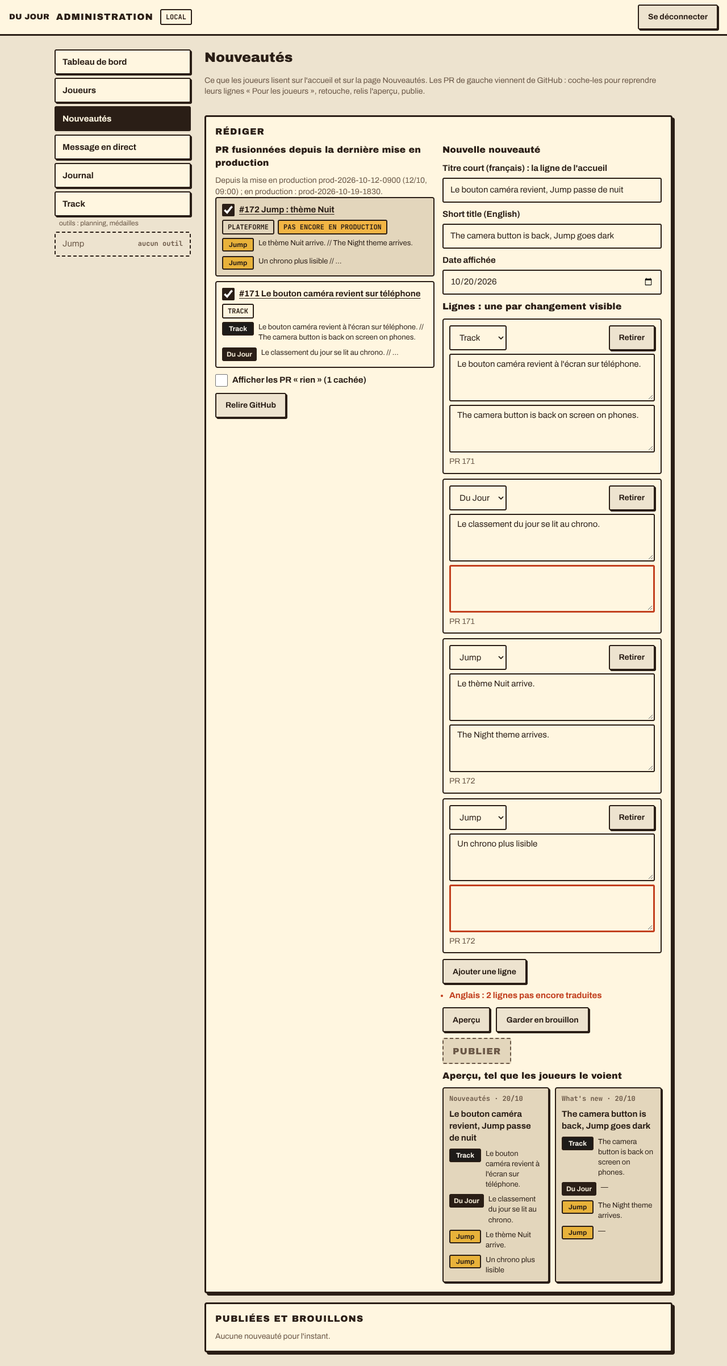
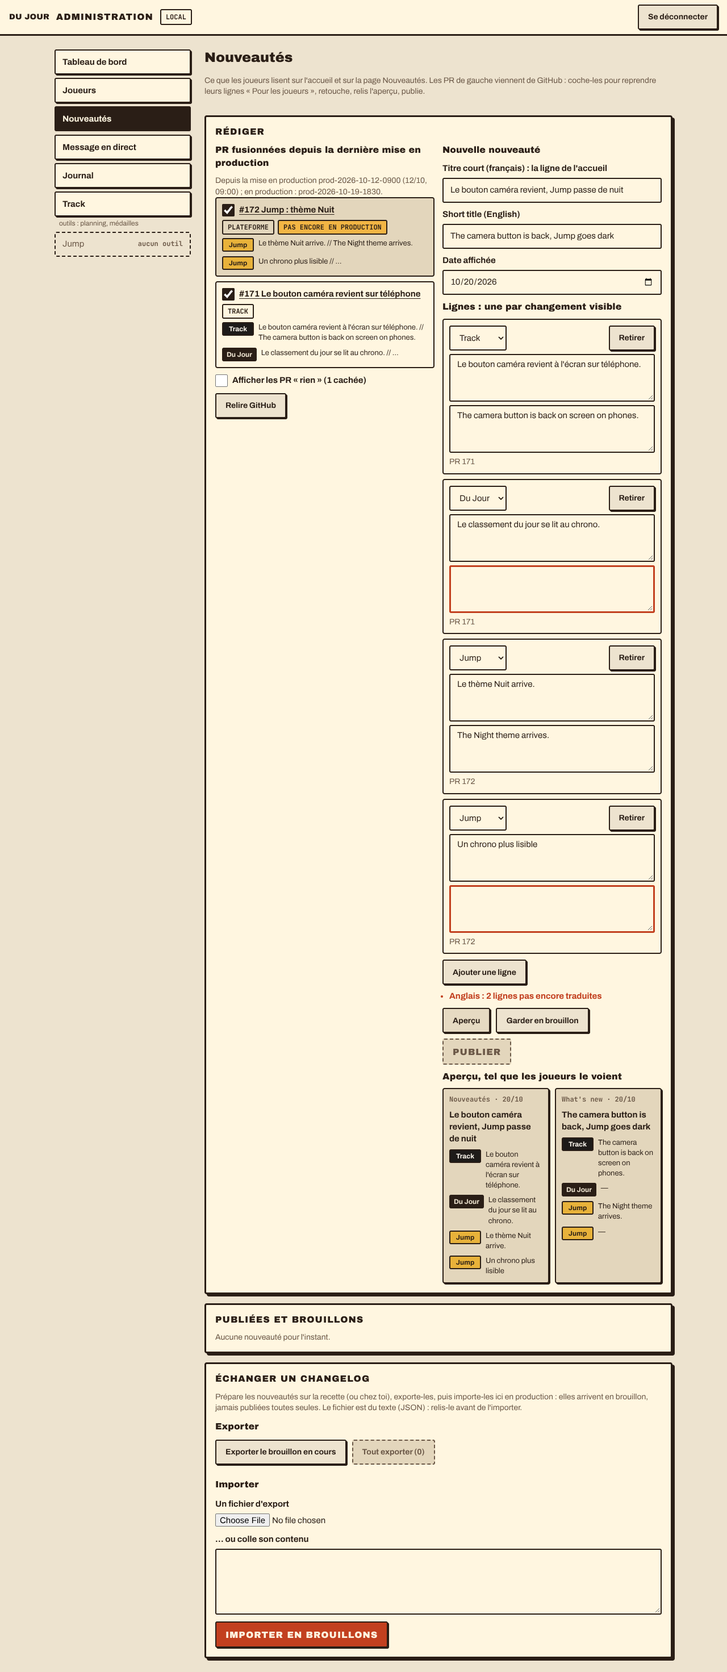
Nouveautés : exporter et importer un changelog (JSON versionné, import en brouillon, doublons ignorés)
Claude-Session: https://claude.ai/code/session_012eMWG3K9nLsopE3XgMPQ2Y

Changed region(s): [[0.0, 0.0, 1.0, 0.9975], [0.9062, 0.0623, 0.9375, 0.0935]]

diff --git a/apps/portail/src/adminDiffusion.ts b/apps/portail/src/adminDiffusion.ts
@@ -1,4 +1,4 @@
-import { NOM_DE_ZONE, ZONES_NOUVEAUTES, MESSAGE_MAX, longueur, nettoyerMessage, nettoyerNouveaute, problemesDeMessage, problemesDePublication, texteProbleme, texteProblemeMessage, type MessageContenu, type OuMessage, type TonMessage, type ZoneNouveaute } from "@cdj/core/nouveautes";
+import { NOM_DE_ZONE, ZONES_NOUVEAUTES, MESSAGE_MAX, cleDeNouveaute, exporterNouveautes, lireExport, longueur, nettoyerMessage, nettoyerNouveaute, problemesDeMessage, texteProblemeImport, problemesDePublication, texteProbleme, texteProblemeMessage, type MessageContenu, type OuMessage, type TonMessage, type ZoneNouveaute } from "@cdj/core/nouveautes";
 import { bouton, el } from "@cdj/ui";
 import {
   ErreurAdmin,
@@ -41,6 +41,16 @@ const titreCarte = (texte: string, id: string) => el("h2", { classe: "admin-titr
 const boutonEnvoi = (texte: string) => el("button", { classe: "dj-bouton dj-bouton--marque", attrs: { type: "submit" }, texte });
 const champ = (id: string, libelle: string, entree: HTMLElement, aide?: string) =>
   el("div", { classe: "admin-champ" }, el("label", { attrs: { for: id }, texte: libelle }), entree, aide ? el("p", { classe: "admin-aide", attrs: { id: `${id}-aide` }, texte: aide }) : null);
+
+/** Fait télécharger `texte` comme un fichier (lien temporaire vers un objet local : rien ne part sur le réseau). */
+function telecharger(nom: string, texte: string): void {
+  const url = URL.createObjectURL(new Blob([texte], { type: "application/json" }));
+  const a = el("a", { attrs: { href: url, download: nom } });
+  document.body.append(a);
+  a.click();
+  a.remove();
+  setTimeout(() => URL.revokeObjectURL(url), 5_000);
+}
 
 /** Un 401 ramène à la connexion ; le reste se dit. */
 async function surErreur(ctx: Contexte, e: unknown, dire: (texte: string) => void): Promise<void> {
@@ -452,6 +462,100 @@ export async function vueNouveautes(ctx: Contexte): Promise<Node[]> {
       : p("Aucune nouveauté pour l'instant.", "admin-aide"),
   );
 
+  // --- Échanger un changelog : exporter, importer (préparer sur la recette, reprendre en production) ------------------------------------------------
+  const exportTexte = el("textarea", { attrs: { id: "export-texte", rows: 6, readonly: true, "aria-label": "Contenu de l'export", spellcheck: "false" } });
+  const exportActions = el("div", { classe: "admin-actions", attrs: { hidden: true } });
+  const montrerExport = (texte: string, nom: string, combien: string): void => {
+    exportTexte.value = texte;
+    exportTexte.hidden = false;
+    exportActions.hidden = false;
+    exportActions.replaceChildren(
+      bouton({ texte: "Télécharger le fichier", variante: "secondaire", onClick: () => telecharger(nom, texte) }),
+      bouton({
+        texte: "Copier",
+        variante: "secondaire",
+        onClick: () =>
+          navigator.clipboard.writeText(texte).then(
+            () => dire("info", "Export copié : colle-le dans « Importer » de l'autre panneau (recette ou production)."),
+            () => dire("erreur", "Copie refusée par le navigateur : sélectionne le texte et copie-le à la main."),
+          ),
+      }),
+    );
+    dire("info", `${combien} exportée${combien.startsWith("1 ") ? "" : "s"} (${texte.length} caractères). Rien n'est modifié ici.`);
+  };
+  const maintenantIso = () => new Date().toISOString();
+  const nomDeFichier = () => `nouveautes-${aujourdhuiParis(Date.now())}.json`;
+  const exporterEditeur = bouton({
+    texte: "Exporter le brouillon en cours",
+    variante: "secondaire",
+    onClick: () => {
+      const c = contenuDe(brouillon);
+      if (!c.titre.fr && !c.titre.en && c.lignes.length === 0) return dire("erreur", "L'éditeur est vide : rien à exporter.");
+      montrerExport(exporterNouveautes([{ ...c, lignes: brouillon.lignes.map((l, i) => ({ ...l, ...c.lignes[i]! })), statut: brouillon.publiee ? "publiee" : "brouillon" }], maintenantIso()), nomDeFichier(), "1 nouveauté");
+    },
+  });
+  exporterEditeur.id = "export-editeur";
+  const exporterTout = bouton({
+    texte: `Tout exporter (${liste.nouveautes.length})`,
+    variante: "secondaire",
+    desactive: liste.nouveautes.length === 0,
+    onClick: () => {
+      if (liste.nouveautes.length === 0) return;
+      montrerExport(exporterNouveautes(liste.nouveautes.map((n) => ({ titre: n.titre, date: n.date, lignes: n.lignes, statut: n.statut })), maintenantIso()), nomDeFichier(), `${liste.nouveautes.length} nouveauté${liste.nouveautes.length > 1 ? "s" : ""}`);
+    },
+  });
+  exporterTout.id = "export-tout";
+  const importTexte = el("textarea", { attrs: { id: "import-texte", rows: 6, "aria-label": "Export à importer (colle le texte ou choisis un fichier)", spellcheck: "false" } });
+  const fichier = el("input", { attrs: { id: "import-fichier", type: "file", accept: "application/json,.json", "aria-label": "Choisir un fichier d'export" } });
+  fichier.addEventListener("change", async () => {
+    const f = fichier.files?.[0];
+    if (!f) return;
+    if (f.size > 400_000) return dire("erreur", "Ce fichier est trop gros pour être un changelog.");
+    importTexte.value = await f.text();
+    dire("info", `Fichier « ${f.name} » chargé : vérifie-le puis clique sur « Importer en brouillons ».`);
+  });
+  const importer = bouton({
+    texte: "Importer en brouillons",
+    variante: "marque",
+    onClick: async () => {
+      const lu = lireExport(importTexte.value, aujourdhuiParis(Date.now()));
+      if (!lu.ok) return dire("erreur", texteProblemeImport(lu.probleme));
+      const connues = new Set(liste.nouveautes.map(cleDeNouveaute));
+      const nouvelles = lu.nouveautes.filter((n, i, tous) => !connues.has(cleDeNouveaute(n)) && tous.findIndex((x) => cleDeNouveaute(x) === cleDeNouveaute(n)) === i);
+      const dejaLa = lu.nouveautes.length - nouvelles.length;
+      if (nouvelles.length === 0) return dire("info", `Rien à importer : ${dejaLa === 1 ? "cette nouveauté est déjà" : `ces ${dejaLa} nouveautés sont déjà`} dans la liste (même date, même titre).`);
+      const v = await ctx.confirmer({
+        titre: "Importer des nouveautés",
+        texte: `${nouvelles.length} nouveauté${nouvelles.length > 1 ? "s" : ""} arrivent en brouillon : ${nouvelles.map((n) => `« ${n.titre.fr || "(sans titre)"} »`).join(", ")}.${dejaLa ? ` ${dejaLa} déjà présente${dejaLa > 1 ? "s" : ""} (ignorée${dejaLa > 1 ? "s" : ""}).` : ""} Rien n'est publié : tu les relis puis tu publies.`,
+        action: "Importer",
+      });
+      if (!v) return;
+      try {
+        for (const n of nouvelles) await ctx.client.enregistrerNouveaute({ titre: n.titre, date: n.date, lignes: n.lignes, publier: false });
+        importTexte.value = "";
+        await ctx.recharger(`${nouvelles.length} nouveauté${nouvelles.length > 1 ? "s" : ""} importée${nouvelles.length > 1 ? "s" : ""} en brouillon${dejaLa ? ` (${dejaLa} déjà présente${dejaLa > 1 ? "s" : ""})` : ""}${lu.ignorees ? `, ${lu.ignorees} entrée${lu.ignorees > 1 ? "s" : ""} illisible${lu.ignorees > 1 ? "s" : ""} ignorée${lu.ignorees > 1 ? "s" : ""}` : ""}. Relis-les ci-dessous, puis publie.`);
+      } catch (e) {
+        await surErreur(ctx, e, (t) => dire("erreur", t));
+      }
+    },
+  });
+  importer.id = "import-valider";
+  const echange = el(
+    "section",
+    { classe: "admin-carte", attrs: { "aria-labelledby": "titre-echange", id: "nouveautes-echange" } },
+    titreCarte("Échanger un changelog", "titre-echange"),
+    p("Prépare les nouveautés sur la recette (ou chez toi), exporte-les, puis importe-les ici en production : elles arrivent en brouillon, jamais publiées toutes seules. Le fichier est du texte (JSON) : relis-le avant de l'importer.", "admin-aide"),
+    el("h3", { classe: "admin-sous-titre", texte: "Exporter" }),
+    el("div", { classe: "admin-actions" }, exporterEditeur, exporterTout),
+    exportTexte,
+    exportActions,
+    el("h3", { classe: "admin-sous-titre", texte: "Importer" }),
+    champ("import-fichier", "Un fichier d'export", fichier),
+    champ("import-texte", "… ou colle son contenu", importTexte),
+    el("div", { classe: "admin-actions" }, importer),
+  );
+  exportTexte.hidden = true;
+
   dessinerEditeur();
   void chargerPrs();
   return [
@@ -460,6 +564,7 @@ export async function vueNouveautes(ctx: Contexte): Promise<Node[]> {
     zoneMessage,
     el("section", { classe: "admin-carte", attrs: { "aria-labelledby": "titre-redaction", id: "nouveautes-redaction" } }, titreCarte("Rédiger", "titre-redaction"), el("div", { classe: "admin-deux-colonnes" }, colonnePrs, colonneEditeur)),
     gestion,
+    echange,
   ];
 }
 

diff --git a/packages/core/src/nouveautes.ts b/packages/core/src/nouveautes.ts
@@ -206,6 +206,106 @@ export function nettoyerNouveaute(brut: unknown): NouveauteContenu {
   };
 }
 
+// --- Exporter et importer un changelog -------------------------------------------------------------------------------------------------------
+// Préparer les nouveautés à l'avance (sur la recette, ou chez soi) puis les reprendre en production : un fichier JSON versionné qui porte une ou plusieurs nouveautés. **Un import ne publie jamais** :
+// chaque nouveauté arrive en brouillon, à relire, puis à publier à la main. Tout ce qui vient du fichier est une donnée : lue prudemment (taille, forme, version), nettoyée comme une saisie
+// (`nettoyerNouveaute`), jamais interprétée. Pur : l'heure de l'export et « aujourd'hui » viennent de l'appelant.
+
+export const FORMAT_EXPORT = "cdj-nouveautes";
+export const VERSION_EXPORT = 1;
+/** Un fichier plus gros n'est pas un changelog : refusé sans être lu. */
+export const EXPORT_OCTETS_MAX = 200_000;
+export const EXPORT_NOUVEAUTES_MAX = 100;
+
+export interface LigneExportee extends LigneNouveaute {
+  /** Le numéro de la PR d'où vient la ligne. */
+  pr?: number;
+}
+export interface NouveauteExportee extends NouveauteContenu {
+  lignes: LigneExportee[];
+  statut: "brouillon" | "publiee";
+}
+
+/** Le fichier d'export : lisible (indenté), versionné, trié comme on le lui donne. `exporteLe` : l'instant de l'export (ISO), pour s'y retrouver. */
+export function exporterNouveautes(nouveautes: readonly { titre: { fr: string; en: string }; date: string; lignes: readonly { zone: ZoneNouveaute | null; fr: string; en: string; pr?: number }[]; statut?: "brouillon" | "publiee" }[], exporteLe: string): string {
+  return JSON.stringify(
+    {
+      format: FORMAT_EXPORT,
+      version: VERSION_EXPORT,
+      exporteLe,
+      nouveautes: nouveautes.map((n) => ({
+        titre: { fr: n.titre.fr, en: n.titre.en },
+        date: n.date,
+        statut: n.statut ?? "brouillon",
+        lignes: n.lignes.map((l) => ({ zone: l.zone, fr: l.fr, en: l.en, ...(Number.isInteger(l.pr) && (l.pr as number) > 0 ? { pr: l.pr } : {}) })),
+      })),
+    },
+    null,
+    2,
+  );
+}
+
+export type ProblemeImport = "trop_gros" | "illisible" | "format" | "version" | "vide" | "trop_nombreuses";
+export function texteProblemeImport(p: ProblemeImport): string {
+  switch (p) {
+    case "trop_gros":
+      return "Ce fichier est trop gros pour être un changelog.";
+    case "illisible":
+      return "Ce fichier n'est pas du JSON lisible.";
+    case "format":
+      return "Ce n'est pas un export de nouveautés de Du Jour.";
+    case "version":
+      return "Cet export vient d'une version plus récente du panneau : mets le panneau à jour.";
+    case "vide":
+      return "Aucune nouveauté dans ce fichier.";
+    case "trop_nombreuses":
+      return `Plus de ${EXPORT_NOUVEAUTES_MAX} nouveautés dans ce fichier : il n'est pas lu.`;
+  }
+}
+
+export type LectureExport = { ok: true; nouveautes: NouveauteExportee[]; ignorees: number } | { ok: false; probleme: ProblemeImport };
+
+/**
+ * Lit un export. `aujourdhui` remplace une date absente ou invalide. Une entrée qui n'est pas un objet est ignorée (comptée) ; les textes sont nettoyés comme une saisie ; le statut du fichier est
+ * gardé à titre d'information (l'import les met tous en brouillon).
+ */
+export function lireExport(texte: string, aujourdhui: string): LectureExport {
+  if (typeof texte !== "string" || texte.length > EXPORT_OCTETS_MAX) return { ok: false, probleme: "trop_gros" };
+  let brut: unknown;
+  try {
+    brut = JSON.parse(texte);
+  } catch {
+    return { ok: false, probleme: "illisible" };
+  }
+  const o = (brut && typeof brut === "object" && !Array.isArray(brut) ? brut : null) as Record<string, unknown> | null;
+  if (!o || o.format !== FORMAT_EXPORT) return { ok: false, probleme: "format" };
+  if (typeof o.version !== "number" || !Number.isInteger(o.version) || o.version < 1) return { ok: false, probleme: "format" };
+  if (o.version > VERSION_EXPORT) return { ok: false, probleme: "version" };
+  const liste = Array.isArray(o.nouveautes) ? o.nouveautes : [];
+  if (liste.length > EXPORT_NOUVEAUTES_MAX) return { ok: false, probleme: "trop_nombreuses" };
+  const nouveautes: NouveauteExportee[] = [];
+  let ignorees = 0;
+  for (const entree of liste) {
+    if (!entree || typeof entree !== "object" || Array.isArray(entree)) {
+      ignorees++;
+      continue;
+    }
+    const e = entree as Record<string, unknown>;
+    const propre = nettoyerNouveaute(e);
+    const lignesBrutes = Array.isArray(e.lignes) ? e.lignes : [];
+    const lignes = propre.lignes.map((l, i): LigneExportee => {
+      const pr = (lignesBrutes[i] as { pr?: unknown } | undefined)?.pr;
+      return Number.isInteger(pr) && (pr as number) > 0 && (pr as number) < 1_000_000 ? { ...l, pr: pr as number } : l;
+    });
+    nouveautes.push({ titre: propre.titre, date: dateValide(propre.date) ? propre.date : aujourdhui, lignes, statut: e.statut === "publiee" ? "publiee" : "brouillon" });
+  }
+  if (nouveautes.length === 0) return { ok: false, probleme: "vide" };
+  return { ok: true, nouveautes, ignorees };
+}
+
+/** La clé d'une nouveauté pour reconnaître « déjà là » à la réimportation : la date affichée et le titre français, sans casse ni espaces en trop. */
+export const cleDeNouveaute = (n: { titre: { fr: string }; date: string }): string => `${n.date}|${n.titre.fr.trim().toLowerCase().replace(/\s+/g, " ")}`;
+
 // --- Le message en direct --------------------------------------------------------------------------------------------------------------
 
 export interface MessageContenu {

diff --git a/packages/core/test/nouveautes.test.ts b/packages/core/test/nouveautes.test.ts
@@ -128,3 +128,65 @@ describe("le message en direct : texte seul, 160 caractères, fin", () => {
     expect(messageActif(null, 0)).toBeNull();
   });
 });
+
+// --- Exporter et importer un changelog ---------------------------------------------------------------------------------------------------------
+import { EXPORT_NOUVEAUTES_MAX, EXPORT_OCTETS_MAX, FORMAT_EXPORT, VERSION_EXPORT, cleDeNouveaute, exporterNouveautes, lireExport, texteProblemeImport } from "../src/nouveautes";
+
+describe("exporter et importer un changelog", () => {
+  const A = { titre: { fr: "Le bouton caméra revient", en: "The camera button is back" }, date: "2026-10-28", statut: "publiee" as const, lignes: [{ zone: "track" as const, fr: "Le bouton revient.", en: "The button is back.", pr: 171 }, { zone: null, fr: "À retoucher", en: "" }] };
+  const B = { titre: { fr: "Jump passe de nuit", en: "Jump goes dark" }, date: "2026-10-29", lignes: [{ zone: "jump" as const, fr: "Le thème Nuit.", en: "The Night theme." }] };
+
+  it("un export est versionné et relu à l'identique ; l'import ne garde que ce qu'il sait lire (zone inconnue → à retoucher)", () => {
+    const texte = exporterNouveautes([A, B], "2026-10-28T10:00:00.000Z");
+    const o = JSON.parse(texte);
+    expect(o).toMatchObject({ format: FORMAT_EXPORT, version: VERSION_EXPORT, exporteLe: "2026-10-28T10:00:00.000Z" });
+    const r = lireExport(texte, "2026-11-01");
+    expect(r.ok).toBe(true);
+    if (!r.ok) return;
+    expect(r.nouveautes).toHaveLength(2);
+    expect(r.nouveautes[0]).toMatchObject({ titre: A.titre, date: "2026-10-28", statut: "publiee" });
+    expect(r.nouveautes[0]!.lignes).toEqual([{ zone: "track", fr: "Le bouton revient.", en: "The button is back.", pr: 171 }, { zone: null, fr: "À retoucher", en: "" }]);
+    expect(r.nouveautes[1]!.statut).toBe("brouillon");
+    expect(r.ignorees).toBe(0);
+  });
+
+  it("un fichier hostile reste une donnée : texte nettoyé, HTML jamais interprété, champs inconnus et numéros de PR absurdes écartés", () => {
+    const texte = JSON.stringify({
+      format: FORMAT_EXPORT,
+      version: 1,
+      nouveautes: [{ titre: { fr: "<img src=x onerror=alert(1)>\n\u0007Titre", en: "T" }, date: "pas une date", extra: "x", lignes: [{ zone: "admin", fr: "a\r\nb", en: "c", pr: -3 }, { zone: "jump", fr: "ok", en: "ok", pr: 1e9 }, { zone: "jump", fr: "ok", en: "ok", pr: "12" }] }, 42, null, []],
+    });
+    const r = lireExport(texte, "2026-11-01");
+    expect(r.ok).toBe(true);
+    if (!r.ok) return;
+    expect(r.ignorees).toBe(3);
+    const n = r.nouveautes[0]!;
+    expect(n.titre.fr).toBe("<img src=x onerror=alert(1)> Titre"); // gardé comme du texte (les clients le posent en textContent), une ligne, sans contrôle
+    expect(n.date).toBe("2026-11-01"); // date invalide : remplacée par aujourd'hui
+    expect(n.lignes[0]).toEqual({ zone: null, fr: "a b", en: "c" });
+    expect(n.lignes.map((l) => l.pr)).toEqual([undefined, undefined, undefined]);
+    expect(JSON.stringify(n)).not.toContain("extra");
+  });
+
+  it("refus nommés : trop gros, illisible, pas notre format, version plus récente, vide, trop de nouveautés", () => {
+    const refus = (t: string) => {
+      const r = lireExport(t, "2026-11-01");
+      return r.ok ? null : r.probleme;
+    };
+    expect(refus("x".repeat(EXPORT_OCTETS_MAX + 1))).toBe("trop_gros");
+    expect(refus("{pas du json")).toBe("illisible");
+    expect(refus("[]")).toBe("format");
+    expect(refus(JSON.stringify({ format: "autre", version: 1, nouveautes: [{}] }))).toBe("format");
+    expect(refus(JSON.stringify({ format: FORMAT_EXPORT, nouveautes: [{}] }))).toBe("format");
+    expect(refus(JSON.stringify({ format: FORMAT_EXPORT, version: VERSION_EXPORT + 1, nouveautes: [{}] }))).toBe("version");
+    expect(refus(JSON.stringify({ format: FORMAT_EXPORT, version: 1, nouveautes: [] }))).toBe("vide");
+    expect(refus(JSON.stringify({ format: FORMAT_EXPORT, version: 1, nouveautes: [1, 2] }))).toBe("vide");
+    expect(refus(JSON.stringify({ format: FORMAT_EXPORT, version: 1, nouveautes: Array.from({ length: EXPORT_NOUVEAUTES_MAX + 1 }, () => ({})) }))).toBe("trop_nombreuses");
+    for (const p of ["trop_gros", "illisible", "format", "version", "vide", "trop_nombreuses"] as const) expect(texteProblemeImport(p).length).toBeGreaterThan(10);
+  });
+
+  it("la clé « déjà là » : même date et même titre français, sans casse ni espaces en trop", () => {
+    expect(cleDeNouveaute({ titre: { fr: "  Le bouton   caméra revient " }, date: "2026-10-28" })).toBe(cleDeNouveaute({ titre: { fr: "le bouton caméra revient" }, date: "2026-10-28" }));
+    expect(cleDeNouveaute({ titre: { fr: "a" }, date: "2026-10-28" })).not.toBe(cleDeNouveaute({ titre: { fr: "a" }, date: "2026-10-29" }));
+  });
+});

diff --git a/apps/web/e2e/diffusion.spec.ts b/apps/web/e2e/diffusion.spec.ts
@@ -107,6 +107,27 @@ test("publier un message › il apparaît sur le portail ; une nouveauté depuis
   await expect(admin.locator("#nouveautes-message")).toContainText("publiée");
   await expect(admin.locator('#nouveautes-gestion [data-statut="publiee"]')).toHaveCount(1);
 
+  // --- Échanger un changelog : exporter, réimporter (déjà là), importer une autre nouveauté : elle arrive en brouillon, jamais publiée -----------------------
+  await admin.locator("#export-tout").click();
+  const exporte = await admin.locator("#export-texte").inputValue();
+  expect(JSON.parse(exporte)).toMatchObject({ format: "cdj-nouveautes", version: 1, nouveautes: [{ statut: "publiee", titre: { fr: "Le bouton caméra revient" } }] });
+  const [telechargement] = await Promise.all([admin.waitForEvent("download"), admin.getByRole("button", { name: "Télécharger le fichier" }).click()]);
+  expect(telechargement.suggestedFilename()).toMatch(/^nouveautes-\d{4}-\d\d-\d\d\.json$/);
+  await admin.locator("#import-texte").fill("pas du json");
+  await admin.locator("#import-valider").click();
+  await expect(admin.locator("#nouveautes-message")).toContainText("pas du JSON lisible");
+  await admin.locator("#import-texte").fill(exporte);
+  await admin.locator("#import-valider").click();
+  await expect(admin.locator("#nouveautes-message")).toContainText("déjà dans la liste");
+  const autre = JSON.parse(exporte);
+  autre.nouveautes[0].titre = { fr: "Une autre nouveauté", en: "Another update" };
+  await admin.locator("#import-texte").fill(JSON.stringify(autre));
+  await admin.locator("#import-valider").click();
+  await admin.getByRole("dialog").getByRole("button", { name: "Importer", exact: true }).click();
+  await expect(admin.locator("#nouveautes-message")).toContainText("importée en brouillon");
+  await expect(admin.locator('#nouveautes-gestion [data-statut="brouillon"]')).toHaveCount(1);
+  await expect(admin.locator('#nouveautes-gestion [data-statut="publiee"]')).toHaveCount(1); // rien n'a été publié par l'import
+
   // --- Le portail : la ligne « Nouveautés » avec son point, puis la page ----------------------------------------------------------------------------
   await portail.reload();
   const ligne = portail.locator("#nouveautes");

diff --git a/apps/portail/src/admin.css b/apps/portail/src/admin.css
@@ -755,3 +755,16 @@
     grid-column: 1 / -1;
   }
 }
+
+/* Échanger un changelog : le contenu d'un export est du texte à lire, en chasse fixe. */
+#export-texte,
+#import-texte {
+  width: 100%;
+  font-family: var(--dj-police-chiffres);
+  font-size: var(--dj-taille-12);
+  line-height: 1.4;
+}
+.admin input[type="file"] {
+  font: inherit;
+  max-width: 100%;
+}

diff --git a/apps/portail/CLAUDE.md b/apps/portail/CLAUDE.md
@@ -56,5 +56,6 @@ README : `docs/plateforme/lots/lot-N2-nouveautes-et-message-en-direct.md` ; serv
 - **`/nouveautes/`** (`nouveautes/index.html`, `src/nouveautesPage.ts`, cadre crème) : les mises à jour **par date, la plus récente en haut**, chaque ligne avec l'étiquette de sa zone (Du Jour, Track, Jump), français ou anglais selon `cdj:langue`, **20 par page puis « Plus anciennes »** (`GET /api/portail/nouveautes?avant=`) ; l'ouvrir note « lu ». Balises de partage (image du portail), axe vérifié par l'e2e `diffusion.spec.ts`. Textes `nouveautes.*` et `portail.nouveautes.*` (catalogue du portail, fr + en), `apercu.nouveautes.*` (construction seulement).
 - **Le bandeau du message en direct** (en tête de l'accueil seulement ; composant `bandeauAnnonce` de `@cdj/ui`, `role="status"`, jamais de focus) : le message est **semé** par la réponse de l'accueil (`surveillance.semer`) puis relu par `GET /api/annonce` **toutes les 60 s, seulement page visible** (`surveillerAnnonce` de `@cdj/profile`, `visibiliteDeLaPage` de `@cdj/ui`) ; fermable, **il revient si le message change** (identifiant mémorisé : `cdj:annonce:fermee`) ; « Important » ne se ferme qu'après 10 s de présence. Un message qui n'est pas destiné au portail (`ou`) ne s'affiche pas.
 - **Les rubriques du panneau** (`src/adminDiffusion.ts` ; état du brouillon en mémoire de la page, rien dans le navigateur) : **Nouveautés** — à gauche les PR fusionnées depuis la dernière mise en production (zone, titre, lignes « Pour les joueurs ; les PR « rien » cachées par défaut, « pas encore en production » pour celles d'après l'étiquette en cours, « déjà dans la nouveauté du … »), à droite l'éditeur (titre court FR / EN, date affichée, lignes zone · FR · EN), aperçu, « Garder en brouillon », « Publier » (désactivé tant qu'il manque de l'anglais : « Anglais : n lignes pas encore traduites »), puis la gestion (modifier, dépublier, supprimer) ; **Message en direct** — textes FR / EN (160 caractères, texte seul), où, ton, jusqu'à (1 h, minuit de Paris, heure précise de Paris), « Mettre à jour », « Retirer maintenant », messages passés ; **tableau de bord** : la ligne « PR depuis la dernière mise en production » (`remplirPrDuTableau`).
+- **Échanger un changelog (export / import)** : la carte « Échanger un changelog » en bas de Nouveautés (`adminDiffusion.ts` ; format et lecture dans `@cdj/core/nouveautes` : `exporterNouveautes`, `lireExport`, `cleDeNouveaute`, testés) — la recette et la production ont chacune leur base, c'est la façon de préparer à l'avance. Un export est un JSON versionné (`format: "cdj-nouveautes"`, `version: 1`, `exporteLe`, `nouveautes[{ titre{fr,en}, date, statut, lignes[{ zone, fr, en, pr? }] }]`) : le brouillon en cours (même non enregistré) ou toutes les nouveautés, **téléchargé** (lien temporaire vers un objet local : rien ne part sur le réseau) ou **copié**. **Importer ne publie jamais** : chaque nouveauté arrive en **brouillon** par l'enregistrement habituel (donc journalisé, nettoyé et validé comme une saisie) ; une nouveauté déjà présente (même date et même titre français, `cleDeNouveaute`) est ignorée, la réimportation est sans danger ; confirmation avant d'écrire. Un fichier est une donnée : taille (200 000 caractères), forme, version (un export plus récent est refusé), au plus 100 nouveautés, textes nettoyés, zone inconnue → ligne « à retoucher », date invalide → aujourd'hui, jamais interprété comme du HTML. Test : `diffusion.spec.ts` (export, téléchargement, réimport « déjà là », import en brouillon sans rien publier) ; mode d'emploi : `docs/plateforme/admin.md`, « Au quotidien ».
 - **Lecture de GitHub** (`src/adminGithub.ts`, **depuis le navigateur de l'éditeur, sur l'API publique, sans secret** : la CSP de `/admin/` autorise `https://api.github.com` en `connect-src` et seulement là — test `site.test.ts`) : l'étiquette `prod-AAAA-MM-JJ-HHMM` est une **heure de Paris** (`instantDeEtiquette`) ; la fenêtre va de **l'étiquette d'avant** (`git/matching-refs/tags/prod-`) à maintenant, une recherche `is:pr is:merged merged:>=…` (2 pages de 100 au plus), sans les PR « robot » (« Jours figés — … »). **Limites : 60 requêtes par heure et par adresse, 10 recherches par minute** ; une visite en coûte 3 (étiquettes, 1 ou 2 recherches) et le tableau de bord 1 ; résultat gardé en mémoire de la page, délai de 10 s ; au-delà, le message dit à quelle heure ça reprend et l'éditeur écrit à la main. **Le texte de GitHub n'est jamais interprété comme du HTML** (`textContent`), une adresse étrangère n'est jamais un lien. Lecture d'une PR : `lirePourLesJoueurs` (`@cdj/core/nouveautes`).
 - Tests : `test/nouveautes.test.ts`, `test/adminGithub.test.ts`, `test/site.test.ts` (CSP), e2e `apps/web/e2e/diffusion.spec.ts` (un seul : publier un message › le portail ; **ports 4192 et 8812 réservés**) ; captures `CAPTURES=1 npx playwright test captures-lot-n2 --project=chromium`.

diff --git a/docs/plateforme/admin.md b/docs/plateforme/admin.md
@@ -100,6 +100,7 @@ done
 - **Les outils de Track** (`/track/admin/` : planning, médailles, outils de test) **ne s'ouvrent qu'avec ta session** : sans connexion la page affiche « Connexion requise » et un bouton vers `/admin/`, qui te ramène sur les outils une fois connecté (`?retour=/track/admin/`, la seule destination permise). Il n'y a plus de jeton à saisir (l'ancien, gardé dans ton navigateur, est effacé à l'ouverture). `ADMIN_TOKEN` ne sert plus qu'aux scripts côté serveur. Une page statique ne peut pas être cachée par l'hébergeur : le code de la page reste téléchargeable, mais **aucun outil n'est monté et aucune donnée n'est lue** tant que le serveur n'a pas confirmé la session ; les données, elles, sont protégées par le serveur.
 - **Jump n'a pas d'outil d'administration** : l'entrée du menu est éteinte. 
 - **Nouveautés** (lot N2, aucune étape de plus de ta part : tout passe par la même connexion) : à gauche les PR fusionnées depuis la dernière mise en production, lues sur l'API publique de GitHub **depuis ton navigateur** (limite : 60 lectures par heure ; au-delà le panneau le dit et tu écris à la main) ; coche une PR pour reprendre ses lignes « Pour les joueurs », complète l'anglais (sans lui, « Publier » reste grisé), regarde l'aperçu, puis « Publier » (ou « Garder en brouillon »). La liste du bas sert à modifier, dépublier ou supprimer.
+- **Préparer un changelog à l'avance (export / import)** : les nouveautés de la recette et de la production sont dans **deux bases séparées**. Pour préparer sur l'une et reprendre sur l'autre, en bas de « Nouveautés », **« Échanger un changelog »** : **Exporter** le brouillon en cours (même non enregistré) ou **toutes** les nouveautés — le contenu s'affiche (JSON, à relire), « Télécharger le fichier » ou « Copier » — puis, sur l'autre panneau, **Importer** (choisir le fichier ou coller le texte) : chaque nouveauté arrive en **brouillon**, jamais publiée toute seule ; celles qui existent déjà (même date, même titre français) sont ignorées, on peut donc réimporter sans crainte. Tu les relis, retouches les lignes, puis tu publies. Le fichier est du texte : rien n'y est interprété (ni HTML ni lien), il est refusé s'il est trop gros, illisible, d'un autre format ou d'une version plus récente du panneau. **Première mise en production avec ce système** : (1) rédige les nouveautés sur la recette (ou directement en brouillon en production : même éditeur) à partir des PR fusionnées ; (2) exporte ; (3) en production, importe, relis l'aperçu en français et en anglais (« Publier » est grisé tant qu'il manque de l'anglais) ; (4) après le bouton « Mettre en production », publie.
 - **Message en direct** (lot N2) : un seul message actif, 160 caractères par langue, texte seul (ni lien ni HTML), où (Portail, Track, Jump), ton, jusqu'à quand (1 h, minuit de Paris, heure précise) ; « Mettre à jour » remplace le message, « Retirer maintenant » l'éteint. Les joueurs le voient en **45 s en moyenne, 90 s au pire** ; il ne s'affiche jamais pendant une course ou un niveau.
 
 ## 6. Ce qui se passe quand ça ne marche pas

diff --git a/docs/plateforme/lots/lot-N2-nouveautes-et-message-en-direct.md b/docs/plateforme/lots/lot-N2-nouveautes-et-message-en-direct.md
@@ -35,3 +35,8 @@ Ligne « Nouveautés · date » sous les tuiles (point terre tant que non lue, `
 **Non vérifié** : la lecture réelle de l'API de GitHub (simulée dans l'e2e par `page.route`) ; le coût réel à 10 000 pages (modèle et mesure d'une requête, voir `couts.md` § 9) ; la maquette `admin-et-nouveautes.html` (absente du dépôt) ; en local, `jump/e2e/profil-commun.spec.ts` échoue à l'étape 3 (synchronisation « offline »), **aussi sur `origin/main`** : propre à cet environnement, la CI fait foi.
 **Décision laissée à Nathan** : le transfert de Hosting à 10 000 pages (`couts.md` § 9).
 **CI** : voir les runs de la PR ; la CI de `main` / recette peut échouer sur les contrôles du Salon (créneau horaire), sans lien avec ce lot.
+
+## Retouches après la fusion (PR de suite)
+- Éditeur de nouveautés : une fiche par ligne, zones de texte pleine largeur ; courbe « joueurs par jour » interactive ; CI de `main` : `surfaces.spec.ts` tolère la lecture publique du message.
+- **Échanger un changelog** (export / import JSON versionné, import toujours en brouillon, doublons ignorés) pour préparer les nouveautés sur la recette et les reprendre en production : `apps/portail/CLAUDE.md`, `docs/plateforme/admin.md`.
+- `/track/admin/` ne s'ouvre qu'avec la connexion du panneau (plus de jeton) et suit la charte : `apps/web/CLAUDE.md`, « La porte de la page d'outils ».
